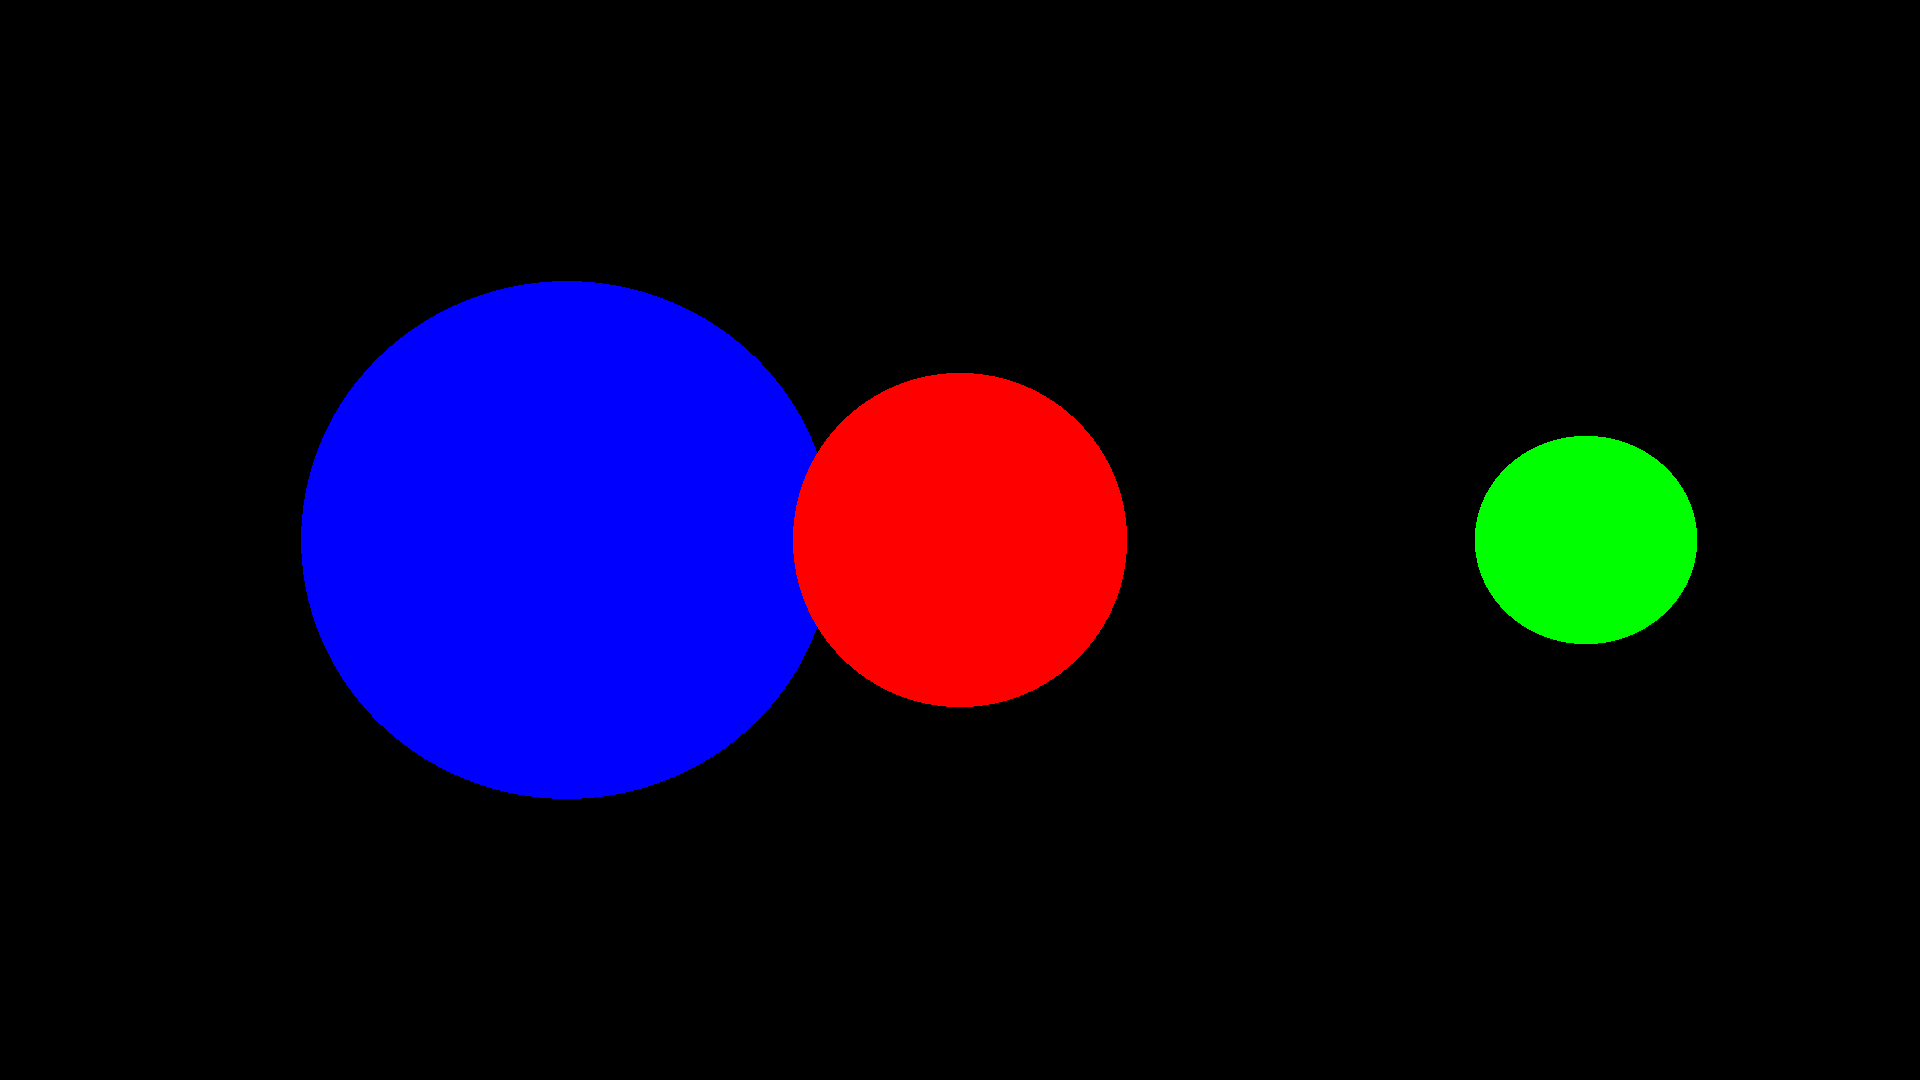
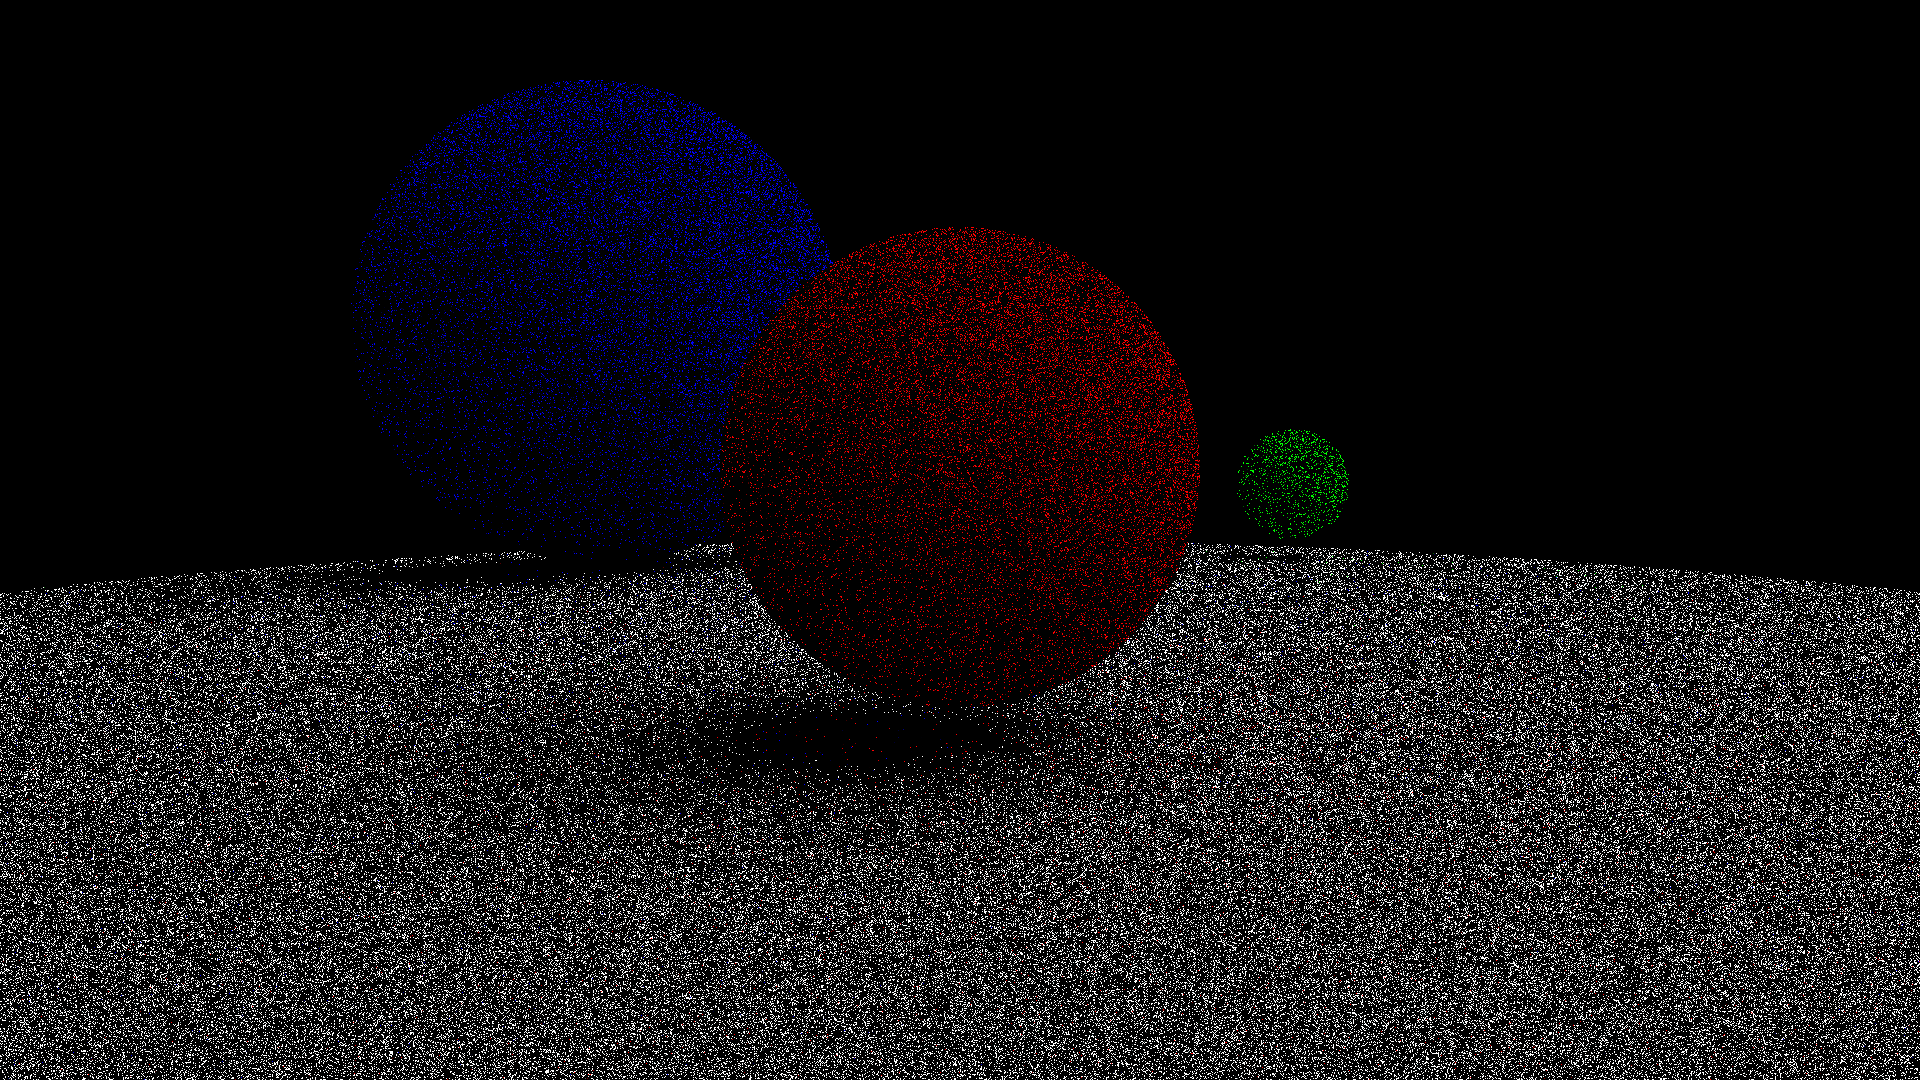
implemented recursive raytracing

Changed region(s): [[0.0, 0.0917, 1.0, 1.0], [0.6562, 0.3972, 0.6875, 0.4583]]

diff --git a/src/geometry/vector.rs b/src/geometry/vector.rs
@@ -1,5 +1,6 @@
 use std::ops::{Neg, Add, Sub, Mul};
 use std::fmt;
+use rand::random;
 
 #[derive(Debug, Clone, Copy)]
 pub struct Vector {
@@ -33,6 +34,27 @@ impl Vector {
             z: self.x * other.y - self.y * other.x
         }
     }
+
+    pub const fn hadamard(&self, other: &Vector) -> Vector {
+        Vector {
+            x: self.x * other.x,
+            y: self.y * other.y,
+            z: self.z * other.z
+        }
+    }
+
+    // Returns a random unit vector
+    // https://math.stackexchange.com/questions/44689/how-to-find-a-random-axis-or-unit-vector-in-3d
+    pub fn random() -> Vector {
+        let theta = random::<f32>() * std::f32::consts::PI * 2.;
+        let z = random::<f32>() * 2. - 1.;
+        let x = (1. - z * z).sqrt() * theta.cos();
+        let y = (1. - z * z).sqrt() * theta.sin();
+        
+        Vector {x, y, z}
+    }
+
+    pub const ZERO: Vector = Vector { x: 0., y: 0., z: 0. };
 }
 
 impl Neg for Vector {
@@ -47,7 +69,7 @@ impl Neg for Vector {
     }
 }
 
-impl Add for Vector {
+impl Add<Vector> for Vector {
     type Output = Vector;
 
     fn add(self, other: Vector) -> Vector {
@@ -59,11 +81,80 @@ impl Add for Vector {
     }
 }
 
-impl Sub for Vector {
+impl Add<Vector> for &Vector {
+    type Output = Vector;
+    fn add(self, other: Vector) -> Vector {
+        Vector {
+            x: self.x + other.x,
+            y: self.y + other.y,
+            z: self.z + other.z,
+        }
+    }
+}
+
+// Vector + &Vector
+impl Add<&Vector> for Vector {
+    type Output = Vector;
+    fn add(self, other: &Vector) -> Vector {
+        Vector {
+            x: self.x + other.x,
+            y: self.y + other.y,
+            z: self.z + other.z,
+        }
+    }
+}
+
+impl Add<&Vector> for &Vector {
+    type Output = Vector;
+    fn add(self, other: &Vector) -> Vector {
+        Vector {
+            x: self.x + other.x,
+            y: self.y + other.y,
+            z: self.z + other.z,
+        }
+    }
+}
+
+impl Sub<Vector> for Vector {
     type Output = Vector;
 
     fn sub(self, other: Vector) -> Vector {
         self + (-other)
+    }
+}
+
+impl Sub<Vector> for &Vector {
+    type Output = Vector;
+    fn sub(self, other: Vector) -> Vector {
+        Vector {
+            x: self.x - other.x,
+            y: self.y - other.y,
+            z: self.z - other.z,
+        }
+    }
+}
+
+// Vector - &Vector  
+impl Sub<&Vector> for Vector {
+    type Output = Vector;
+    fn sub(self, other: &Vector) -> Vector {
+        Vector {
+            x: self.x - other.x,
+            y: self.y - other.y,
+            z: self.z - other.z,
+        }
+    }
+}
+
+// &Vector - &Vector
+impl Sub<&Vector> for &Vector {
+    type Output = Vector;
+    fn sub(self, other: &Vector) -> Vector {
+        Vector {
+            x: self.x - other.x,
+            y: self.y - other.y,
+            z: self.z - other.z,
+        }
     }
 }
 
@@ -87,6 +178,28 @@ impl Mul<Vector> for f32 {
             x: vector.x * self,
             y: vector.y * self,
             z: vector.z * self
+        }
+    }
+}
+
+impl Mul<f32> for &Vector {
+    type Output = Vector;
+    fn mul(self, scalar: f32) -> Vector {
+        Vector {
+            x: self.x * scalar,
+            y: self.y * scalar,
+            z: self.z * scalar,
+        }
+    }
+}
+ 
+impl Mul<&Vector> for f32 {
+    type Output = Vector;
+    fn mul(self, vector: &Vector) -> Vector {
+        Vector {
+            x: vector.x * self,
+            y: vector.y * self,
+            z: vector.z * self,
         }
     }
 }

diff --git a/src/raytracer.rs b/src/raytracer.rs
@@ -1,0 +1,49 @@
+use crate::geometry::ray::Ray;
+use crate::geometry::vector::Vector;
+use crate::geometry::sphere::Sphere;
+use crate::config::*;
+
+// Returns the color of the ray, using diffuse reflection
+pub fn raytrace(ray: &Ray, bounces: u8) -> Vector {
+
+    // Find the closest intersection
+
+    let mut d: Option<f32> = None;
+    let mut obj: Option<&Sphere> = None;
+
+    for object in OBJECTS.iter() {
+        let Some(distance) = ray.shoot(object) else { continue };
+        if d.is_none() || distance < d.unwrap() {
+            d = Some(distance);
+            obj = Some(object);
+        };
+    }
+
+    if d.is_none() { return VOID };
+
+    // Compute the pixel's color given the intersected object and the number of
+    // bounces left
+
+    let distance = d.unwrap();
+    let object = obj.unwrap();
+
+    let emitted = object.color * object.intensity;
+
+    if bounces == 0 { return emitted };
+
+    let intersection = ray.origin + distance * ray.direction;
+    let normal = object.normal(&intersection);
+
+    // Calculate the direction of the reflection. Must be in the half-space
+    // defined by the intersection normal
+    let random = Vector::random();
+    let random_dot = normal.dot(&random);
+    let new_direction = if random_dot >= 0. { random } else { -random };
+    let new_ray = Ray::new(intersection, new_direction);
+    let bounce_strength = random_dot.abs();
+
+    
+    let reflected = raytrace(&new_ray, bounces - 1).hadamard(&object.color) * bounce_strength;
+
+    emitted + reflected
+}

diff --git a/src/config.rs b/src/config.rs
@@ -1,4 +1,3 @@
-use image::Rgb;
 use crate::geometry::vector::Vector;
 use crate::geometry::sphere::Sphere;
 
@@ -8,15 +7,18 @@ pub const HEIGHT: u32 = 1080;
 
 // Camera settings
 pub const FOV_ANGLE: f32 = std::f32::consts::FRAC_PI_3;
-pub const CAMERA_POSITION: Vector = Vector::new(0., 0., -10.);
+pub const CAMERA_POSITION: Vector = Vector::new(0., 0., -20.);
 pub const FORWARD: Vector = Vector::new(0., 0., 1.);
 pub const RIGHT: Vector = Vector::new(1., 0., 0.);
 pub const UP: Vector = RIGHT.cross(&FORWARD);
+pub const VOID: Vector = Vector::ZERO;
 
 // Scene settings
-pub const OBJECTS: [Sphere; 3] = [
-    Sphere::new(Vector::new(0., 0., 0.), 1., Rgb([255, 0, 0])),
-    Sphere::new(Vector::new(3., 0., -2.), 0.5, Rgb([0, 255, 0])),
-    Sphere::new(Vector::new(-3., 0., 3.), 2., Rgb([0, 0, 255]))
+pub const BOUNCES: u8 = 3;
+pub const OBJECTS: [Sphere; 5] = [
+    Sphere::new(Vector::new(0., 0.3, -13.), 1., Vector::new(1., 0., 0.), 0.),
+    Sphere::new(Vector::new(3., 0.5, -5.), 0.5, Vector::new(0., 1., 0.), 0.),
+    Sphere::new(Vector::new(-3., 1.8, -6.), 2., Vector::new(0., 0., 1.), 0.),
+    Sphere::new(Vector::new(0., -100., 0.), 100., Vector::new(1., 1., 1.), 0.),
+    Sphere::new(Vector::new(60., 120., -20.), 80., Vector::new(1., 1., 1.), 10.)
 ];
-

diff --git a/src/main.rs b/src/main.rs
@@ -1,8 +1,12 @@
-use image::{RgbImage, Rgb};
+use image::{RgbImage};
 mod config;
 use config::*;
 mod geometry;
 use geometry::ray::Ray;
+mod raytracer;
+use raytracer::raytrace;
+mod utils;
+use utils::to_rgb;
 
 fn main() {
     let mut image = RgbImage::new(WIDTH, HEIGHT);
@@ -19,23 +23,8 @@ fn main() {
             let world_direction = (ray_x * RIGHT + ray_y * UP + FORWARD).normalize();
             let ray = Ray::new(CAMERA_POSITION, world_direction);
 
-            let mut distance: Option<f32> = None;
-            let mut color: Option<Rgb<u8>> = None;
-            for object in OBJECTS.iter() {
-                if let Some(d) = ray.shoot(object) {
-                    if distance.is_none() || d < distance.unwrap() {
-                        distance = Some(d);
-                        color = Some(object.color);
-                    }
-                }
-            }
-
-            if distance.is_none() {
-                image.put_pixel(x, y, Rgb([0, 0, 0]));
-            } else {
-                image.put_pixel(x, y, color.unwrap());
-            }
-
+            let pixel_color = raytrace(&ray, BOUNCES);
+            image.put_pixel(x, HEIGHT - y - 1, to_rgb(&pixel_color));
         }
     }
 

diff --git a/src/geometry/sphere.rs b/src/geometry/sphere.rs
@@ -1,15 +1,19 @@
-use image::Rgb;
 use crate::geometry::vector::Vector;
 
 #[derive(Debug, Clone, Copy)]
 pub struct Sphere {
     pub center: Vector,
     pub radius: f32,
-    pub color: Rgb<u8>
+    pub color: Vector,
+    pub intensity: f32
 }
 
 impl Sphere {
-    pub const fn new(center: Vector, radius: f32, color: Rgb<u8>) -> Sphere {
-        Sphere { center, radius, color }
+    pub const fn new(center: Vector, radius: f32, color: Vector, intensity: f32) -> Sphere {
+        Sphere { center, radius, color, intensity }
+    }
+
+    pub fn normal(self, point: &Vector) -> Vector {
+        (point - self.center).normalize()
     }
 }

diff --git a/src/utils.rs b/src/utils.rs
@@ -1,0 +1,6 @@
+use image::Rgb;
+use crate::geometry::vector::Vector;
+
+pub fn to_rgb(vector: &Vector) -> Rgb<u8> {
+    Rgb([(vector.x * 225.) as u8, (vector.y * 255.) as u8, (vector.z * 255.) as u8])
+}
